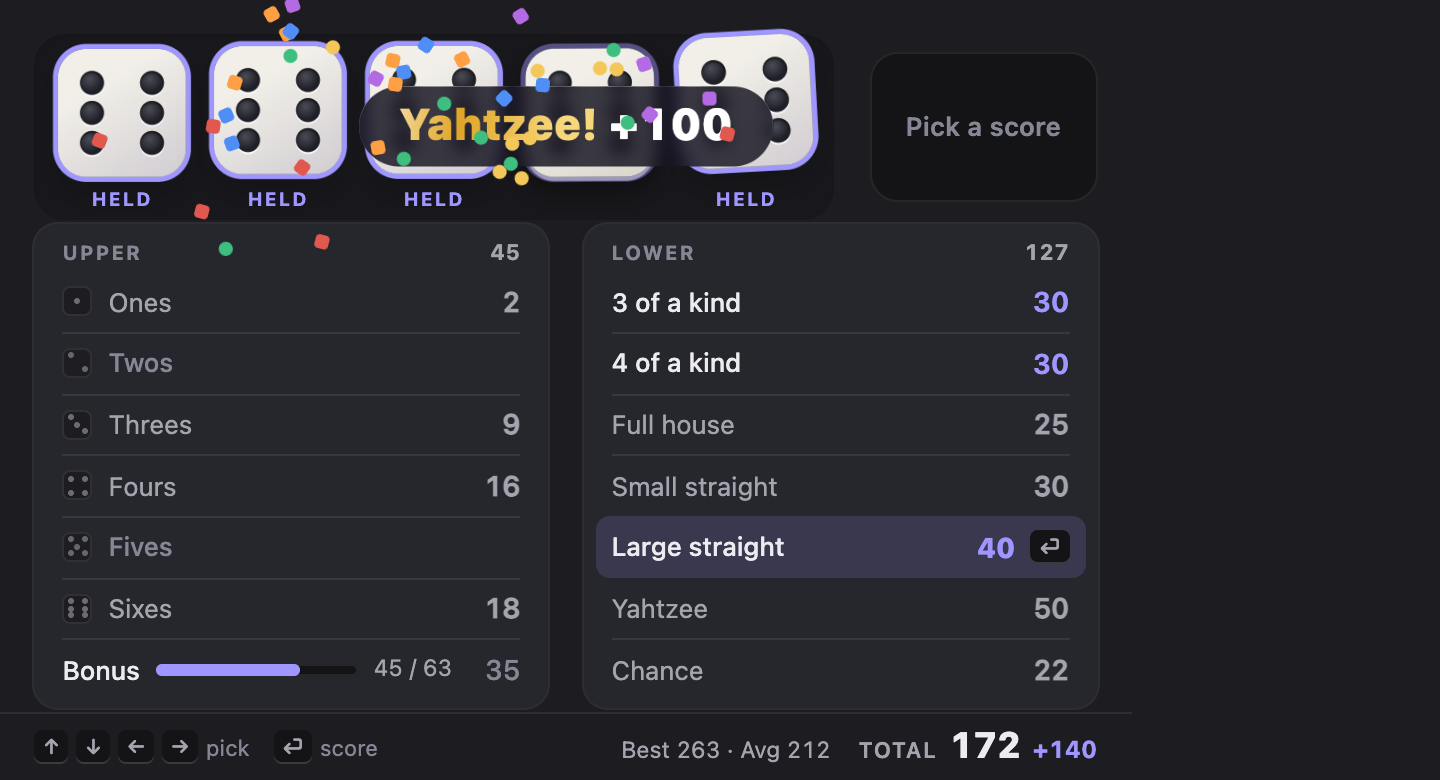
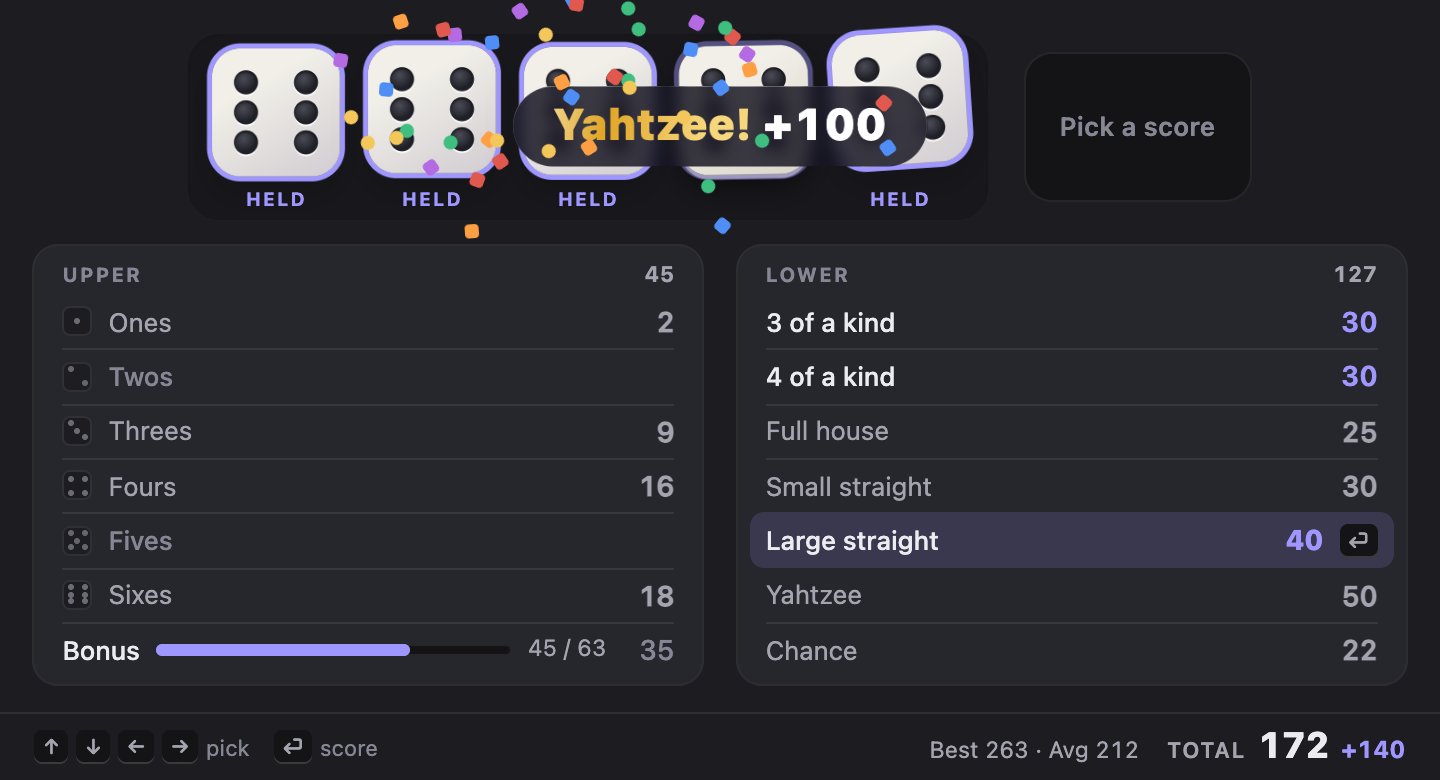
yahtzee: the page's typing flag is body.typing; body.keys matched the key-cap rule (.keys, inline-flex) and shrank the body to its content after the first key; the screenshots retaken at a true 720

diff --git a/yahtzee/surface/style.css b/yahtzee/surface/style.css
@@ -144,7 +144,7 @@ body.over #result { opacity: 1; transform: none; pointer-events: auto; }
   transition: opacity 120ms;
   pointer-events: none;
 }
-body.keys .die.cur::after { opacity: 0.8; }
+body.typing .die.cur::after { opacity: 0.8; }
 /* The dice a box counts, while its row is picked. */
 .die.counts .face { box-shadow: 0 0 0 2.5px color-mix(in srgb, var(--accent) 45%, transparent), 0 2px 0 var(--ivory-edge), var(--die-lift); }
 .die.held.counts .face { box-shadow: 0 0 0 2.5px var(--accent), 0 2px 0 var(--ivory-edge), 0 8px 16px rgba(0, 0, 0, 0.18); }
@@ -172,7 +172,7 @@ body.keys .die.cur::after { opacity: 0.8; }
 #roll .left i { width: 6px; height: 6px; border-radius: 50%; background: currentColor; opacity: 0.95; transition: opacity 200ms, transform 200ms; }
 #roll .left i.used { opacity: 0.28; transform: scale(0.8); }
 #roll .cap { position: absolute; right: 6px; top: 6px; opacity: 0; }
-body.keys #roll .cap { opacity: 1; }
+body.typing #roll .cap { opacity: 1; }
 #roll:hover { filter: brightness(1.08); }
 #roll:active, #roll.pressed { transform: translateY(2px); box-shadow: 0 0 0 color-mix(in srgb, var(--accent) 60%, #000), 0 3px 8px color-mix(in srgb, var(--accent) 30%, transparent); }
 #roll:disabled {
@@ -275,7 +275,7 @@ body.newbest #newbest { display: inline-block; }
 .cat .val { flex: none; min-width: 26px; text-align: right; font-size: 14px; font-weight: 650; }
 .cat .note { color: var(--pal-fg-faint); font-size: 11.5px; font-weight: 500; }
 .cat .enter { flex: none; display: none; }
-body.keys .cat.cur .enter { display: inline-grid; }
+body.typing .cat.cur .enter { display: inline-grid; }
 
 /* A filled box: its score, the label quiet; an open one's label is the one to read. */
 .cat .lbl { font-weight: var(--pal-weight-medium, 500); }

diff --git a/yahtzee/surface/main.ts b/yahtzee/surface/main.ts
@@ -108,7 +108,7 @@ window.addEventListener("keydown", (e) => {
     if (e.key === "Enter" || e.key === "y") play({ type: "new" }, true);
     return;
   }
-  document.body.classList.add("keys");
+  document.body.classList.add("typing");
   const k = e.key;
   const handled = () => e.preventDefault();
   if (st.ended) {
@@ -156,7 +156,7 @@ window.addEventListener("keydown", (e) => {
   }
 });
 // The keys' marks (the die ring, the Enter cap) show while the keys are in use; a mouse move hides them.
-window.addEventListener("mousemove", (e) => { if (e.movementX || e.movementY) document.body.classList.remove("keys"); });
+window.addEventListener("mousemove", (e) => { if (e.movementX || e.movementY) document.body.classList.remove("typing"); });
 
 pal.onAction((id) => { const m = moveOf(id); if (m) play(m, true); });
 pal.onTheme(() => board.render(st, cur));
